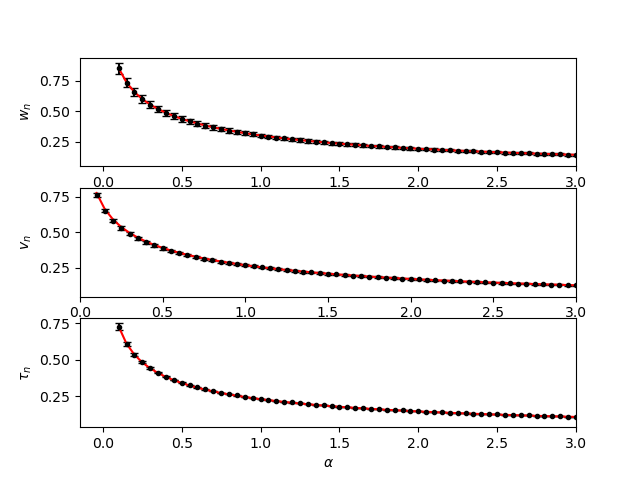
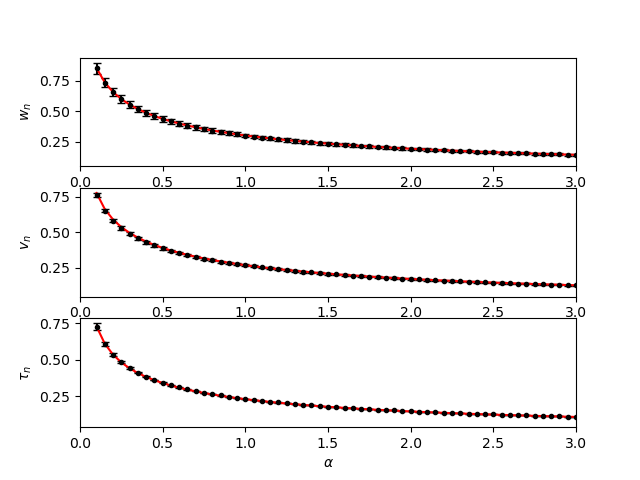
update
modified plot routine, to remove observed space at origin

diff --git a/Logit/plots.py b/Logit/plots.py
@@ -5,8 +5,8 @@ from scipy import integrate
 zeta = 0.7
 theta0 = 1.0
 fmt = '_zeta' +"{:.2f}".format(zeta)+'_theta0'+"{:.2f}".format(theta0)
-rs_df = pd.read_csv('rs'+fmt+'.csv')
-sim_df = pd.read_csv('sim'+fmt+'.csv')
+rs_df = pd.read_csv('data/rs'+fmt+'.csv')
+sim_df = pd.read_csv('data/sim'+fmt+'.csv')
 
 
 
@@ -16,14 +16,14 @@ plt.errorbar(sim_df['alpha'],sim_df['w_mean'],yerr =sim_df['w_std'],fmt = 'ko', 
 plt.plot(rs_df['alpha'],rs_df['w'],'r-')
 plt.ylabel(r'$w_n$')
 plt.xlabel(r'$\alpha$')
-plt.savefig('w' + fmt + '.jpg')
+plt.savefig('figures/w' + fmt + '.jpg')
 
 plt.figure()
 plt.errorbar(sim_df['alpha'],sim_df['v_mean'],yerr =sim_df['v_std'],fmt = 'ko', capsize = 3)
 plt.plot(rs_df['alpha'],rs_df['v'],'r-')
 plt.ylabel(r'$v_n$')
 plt.xlabel(r'$\alpha$')
-plt.savefig('v' + fmt + '.jpg')
+plt.savefig('figures/v' + fmt + '.jpg')
 
 plt.figure()
 plt.errorbar(sim_df['alpha'],sim_df['tau_mean'],yerr =sim_df['tau_std'],fmt = 'ko', capsize = 3)
@@ -45,7 +45,7 @@ plt.errorbar(sim_df['alpha'],sim_df['cv_bs_mean'],yerr =sim_df['cv_bs_std'],fmt 
 plt.plot(rs_df['alpha'],rs_df['cv_bs_loo'],'r-')
 plt.ylabel(r'$CV BS $')
 plt.xlabel(r'$\alpha$')
-plt.savefig('cv_bs' + fmt + '.jpg')
+plt.savefig('figures/cv_bs' + fmt + '.jpg')
 
 plt.figure()
 plt.errorbar(sim_df['alpha'],sim_df['cv_loss_mean'],yerr =sim_df['cv_loss_std'],fmt = 'ko', capsize = 3)
@@ -56,13 +56,12 @@ plt.savefig('cv_loss' + fmt + '.jpg')
 
 
 
-# plt.figure()
-# plt.plot(rs_df['alpha'],rs_df['corr'] ,'r-')
-# plt.errorbar(sim_df['alpha'],sim_df['corr_mean'],yerr =sim_df['corr_std'],fmt = 'ko', capsize = 3)
-# # plt.plot(rs_df['alpha'], np.ones(len(rs_df['alpha']))*a, 'r-')
-# plt.ylabel(r"$\chi_n$")
-# plt.xlabel(r'$\alpha$')
-# plt.savefig('correlation' + fmt +'.jpg')
+plt.figure()
+plt.plot(rs_df['alpha'],rs_df['corr'] ,'r-')
+plt.errorbar(sim_df['alpha'],sim_df['corr_mean'],yerr =sim_df['corr_std'],fmt = 'ko', capsize = 3)
+plt.ylabel(r"$\chi_n$")
+plt.xlabel(r'$\alpha$')
+plt.savefig('figures/correlation' + fmt +'.jpg')
 
 
 fig1 = plt.figure()
@@ -73,28 +72,27 @@ ax3 = fig1.add_subplot(313)
 ax1.errorbar(sim_df['alpha'],sim_df['w_mean'],yerr =sim_df['w_std'],fmt = 'k.', capsize = 3)
 ax1.plot(rs_df['alpha'],rs_df['w'],'r-')
 ax1.set_ylabel(r'$w_n$')
-ax1.set_xlim(right = 3.0)
+ax1.set_xlim(left = 0.0, right = 3.0)
 # ax1.set_xlabel(r'$\alpha$')
 
 ax2.errorbar(sim_df['alpha'],sim_df['v_mean'],yerr =sim_df['v_std'],fmt = 'k.', capsize = 3)
 ax2.plot(rs_df['alpha'],rs_df['v'],'r-')
 ax2.set_ylabel(r'$v_n$')
-ax2.set_xlim( left = 0.0, right = 3.0)
+ax2.set_xlim(left = 0.0, right = 3.0)
 # ax2.set_xlabel(r'$\alpha$')
 
 ax3.errorbar(sim_df['alpha'],sim_df['tau_mean'],yerr =sim_df['tau_std'],fmt = 'k.', capsize = 3)
 ax3.plot(rs_df['alpha'],rs_df['tau'],'r-')
 ax3.set_ylabel(r'$\tau_n$')
 ax3.set_xlabel(r'$\alpha$')
-ax3.set_xlim(right = 3.0)
+ax3.set_xlim(left = 0.0,right = 3.0)
 
-plt.savefig('estimates_oreder_parameters' + fmt + '.png')
+plt.savefig('figures/estimates_oreder_parameters' + fmt + '.png')
 
 
 fig2 = plt.figure()
-ax1 = fig2.add_subplot(311)
-ax2 = fig2.add_subplot(312)
-ax3 = fig2.add_subplot(313)
+ax1 = fig2.add_subplot(211)
+ax2 = fig2.add_subplot(212)
 
 ax1.errorbar(sim_df['alpha'],sim_df['gamma_mean'],yerr =sim_df['gamma_std'],fmt = 'ko', capsize = 3)
 ax1.plot(rs_df['alpha'],rs_df['w']**2 + (rs_df['v']**2) * (1.0 - zeta),'r-')
@@ -106,11 +104,6 @@ ax2.errorbar(sim_df['alpha'],sim_df['corr_mean'],yerr =sim_df['corr_std'],fmt = 
 ax2.set_ylabel(r"$\chi_n$")
 ax2.set_xlim( left = 0.0, right = 3.0)
 
-ax3.plot(rs_df['alpha'],rs_df['phi'] ,'r-')
-ax3.errorbar(sim_df['alpha'],sim_df['phi_mean'],yerr =sim_df['phi_std'],fmt = 'ko', capsize = 3)
-ax3.set_ylabel(r"$\hat{\phi}_n$")
-ax3.set_xlabel(r'$\alpha$')
-ax3.set_xlim( left = 0.0, right = 3.0)
 
-plt.savefig('estimates_metrics' + fmt + '.png')
+plt.savefig('figures/estimates_metrics' + fmt + '.png')
 plt.show()
